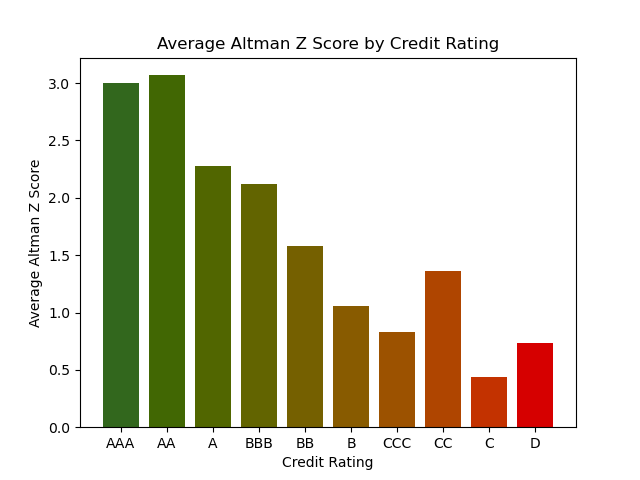
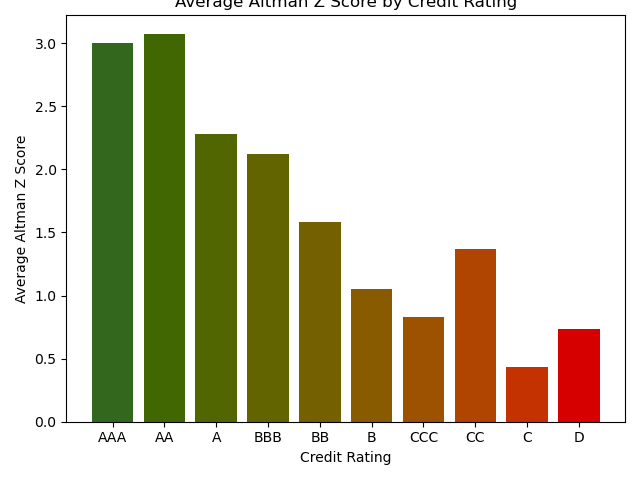
fix aspect ratio by applying tight layout for rating altman z plot

diff --git a/Output/All Data EDA/Tabular EDA/share_of_ratings_same_as_previous_fixed_quarter_date.tex b/Output/All Data EDA/Tabular EDA/share_of_ratings_same_as_previous_fixed_quarter_date.tex
@@ -26,3 +26,5 @@
 \renewcommand{\shareNotChangesTest}{95.35\%}
 \renewcommand{\shareNotChanges}{94.79\%}
 \renewcommand{\shareNotChangesTest}{95.35\%}
+\renewcommand{\shareNotChanges}{94.79\%}
+\renewcommand{\shareNotChangesTest}{95.35\%}

diff --git a/Output/All Data EDA/Tabular EDA/num_quarters_and_companies.tex b/Output/All Data EDA/Tabular EDA/num_quarters_and_companies.tex
@@ -71,3 +71,5 @@
 \renewcommand{\numCompanies}{429}
 \renewcommand{\numQuarters}{5,509}
 \renewcommand{\numCompanies}{429}
+\renewcommand{\numQuarters}{5,509}
+\renewcommand{\numCompanies}{429}
